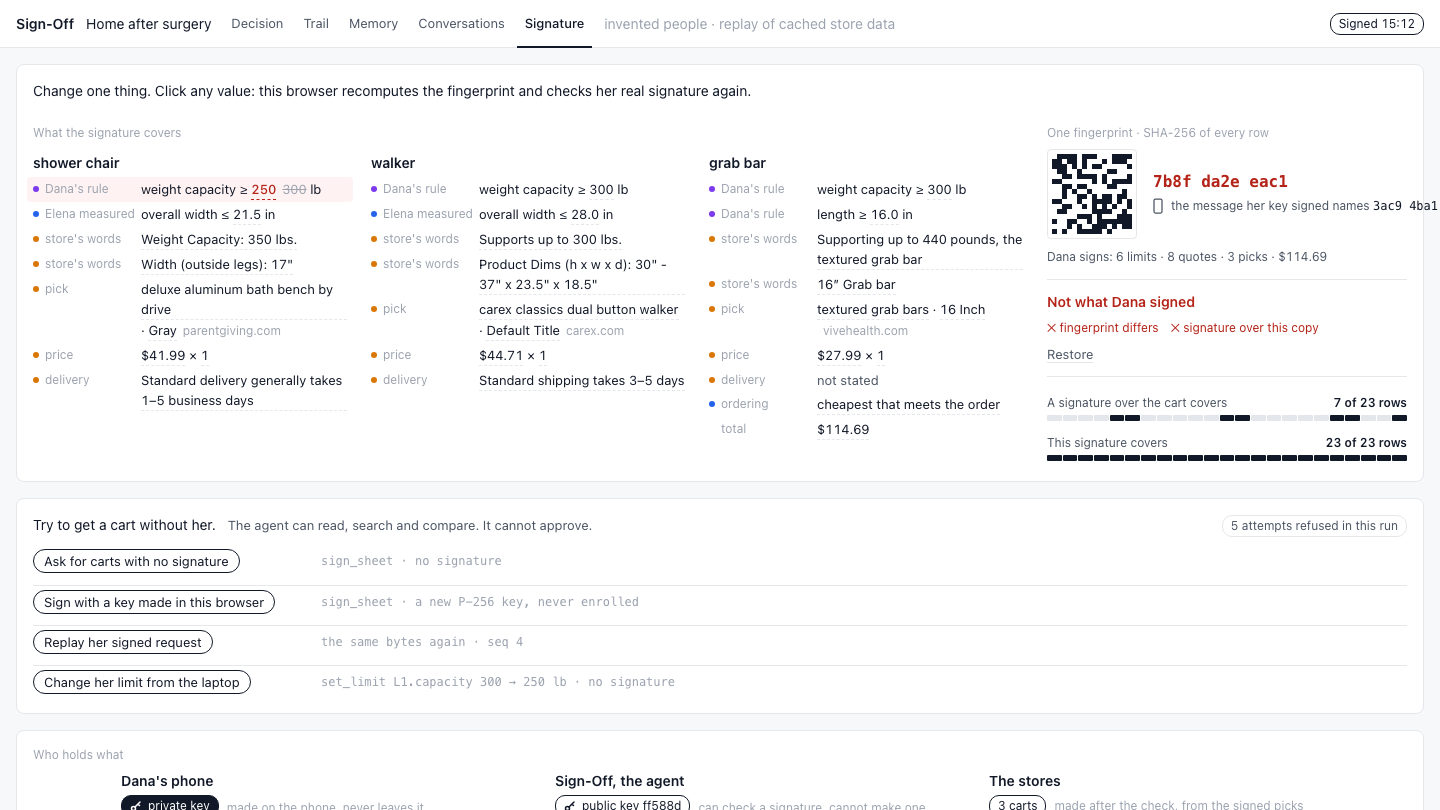
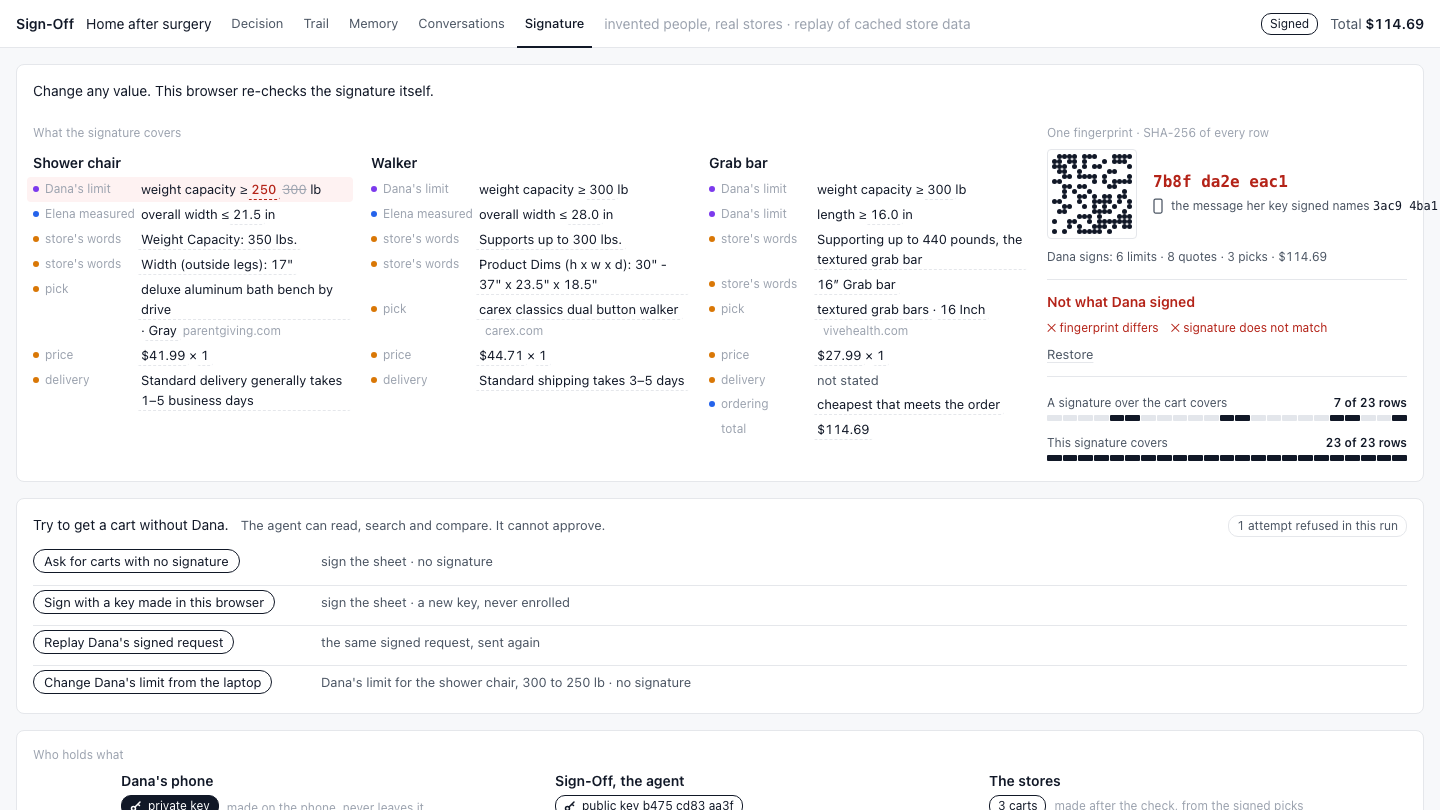
SEAL: lanes say signing and limit change in plain words; the code line fits; shots of both pages retaken

diff --git a/web/seal/seal.js b/web/seal/seal.js
@@ -102,7 +102,7 @@ function renderCheck() {
   const same = r.fingerprint === onPhone;
   q("#codes").innerHTML = `<span class="code ${same ? "" : "off"}" title="${esc(r.fingerprint)}">${esc(short(r.fingerprint))}</span>
     <span class="phone">${ICON.phone}<span>${p.signed
-      ? (same ? "the message her key signed names the same code" : `the message her key signed names <code>${esc(short(onPhone))}</code>`)
+      ? (same ? "her signed message names this code" : `her signed message names <code>${esc(short(onPhone))}</code>`)
       : "no signed message names this code yet"}</span></span>`;
   q("#sum").textContent = p.summary.text;
   const restore = edited ? `<button class="link" id="restore">Restore</button>` : "";

diff --git a/web/seal/seal.css b/web/seal/seal.css
@@ -62,7 +62,7 @@
 .codes { display: flex; flex-direction: column; gap: 0.25rem; min-width: 0; }
 .code { font: 600 1rem/1.25rem var(--mono); }
 .code.off { color: var(--bad); }
-.phone { display: flex; align-items: center; gap: 0.5rem; font-size: 0.75rem; color: var(--t2); white-space: nowrap; }
+.phone { display: flex; align-items: center; gap: 0.5rem; font-size: 0.75rem; color: var(--t2); }
 .phone svg { flex: none; width: 0.625rem; height: 1rem; fill: none; stroke: currentColor; stroke-width: 1.25; }
 .phone code { color: var(--t1); }
 .verdict { display: flex; align-items: baseline; gap: 0.5rem; font-weight: 600; }

diff --git a/signoff/seal/api.py b/signoff/seal/api.py
@@ -19,6 +19,9 @@ ALGORITHM = {"signature": "ECDSA P-256, SHA-256, raw r||s (64 bytes), base64url"
              "fingerprint": "SHA-256 (hex) of the UTF-8 bytes of canonical; the message names it as sheet_hash"}
 
 
+ASKED = {"sign_sheet": "signing", "set_limit": "limit change", "strike": "strike", "unstrike": "unstrike"}  # a request's type in plain words
+
+
 def _short(sheet_hash: str | None) -> str:
     h = (sheet_hash or "")[:12]
     return " ".join(h[i:i + 4] for i in range(0, len(h), 4))
@@ -45,7 +48,7 @@ def events(receipts: list, seal: dict) -> list:
                 out.append({"at": r["at"], "from": "phone", "to": "agent", "text": what, "what": what, "count": 1})
         elif kind == "request_refused":
             why = str(d.get("refused_because") or "").split(":")[0].replace("_", " ")
-            text = "%s refused: %s" % ((d.get("request") or "request").replace("_", " "), why)
+            text = "%s refused: %s" % (ASKED.get(d.get("request"), "request"), why)
             if out and out[-1].get("whys"):  # refusals that follow each other are one line with a count and the reasons
                 last = out[-1]
                 last["count"] += 1

diff --git a/tests/seal/test_seal.py b/tests/seal/test_seal.py
@@ -140,4 +140,4 @@ def test_refused_requests_are_listed_from_the_receipts():
              {"n": 3, "at": "t3", "type": "request_refused", "detail": {"request": "sign_sheet", "refused_because": "unsigned: x"}}]
     assert [(r["n"], r["request"]) for r in api.refused(chain)] == [(2, "sign_sheet"), (3, "sign_sheet")]
     assert [e["text"] for e in api.events(chain, {})][-1] == "2 requests refused: unsigned"
-    assert [e["text"] for e in api.events(chain[:2], {})][-1] == "sign sheet refused: unsigned"
+    assert [e["text"] for e in api.events(chain[:2], {})][-1] == "signing refused: unsigned"
